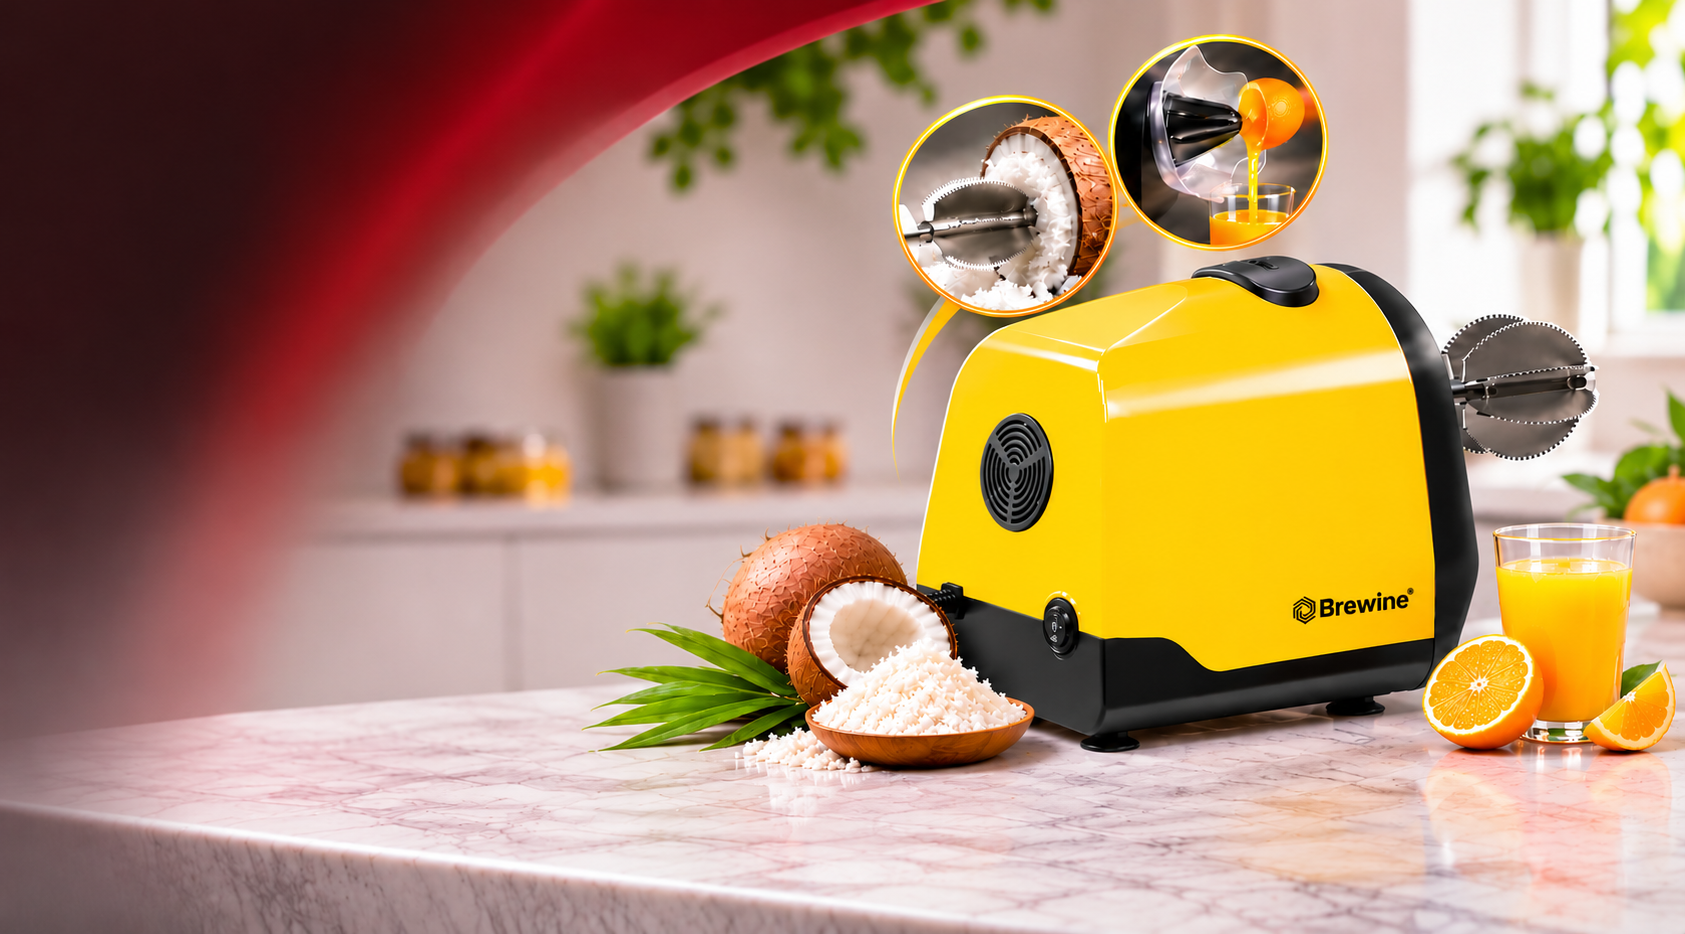
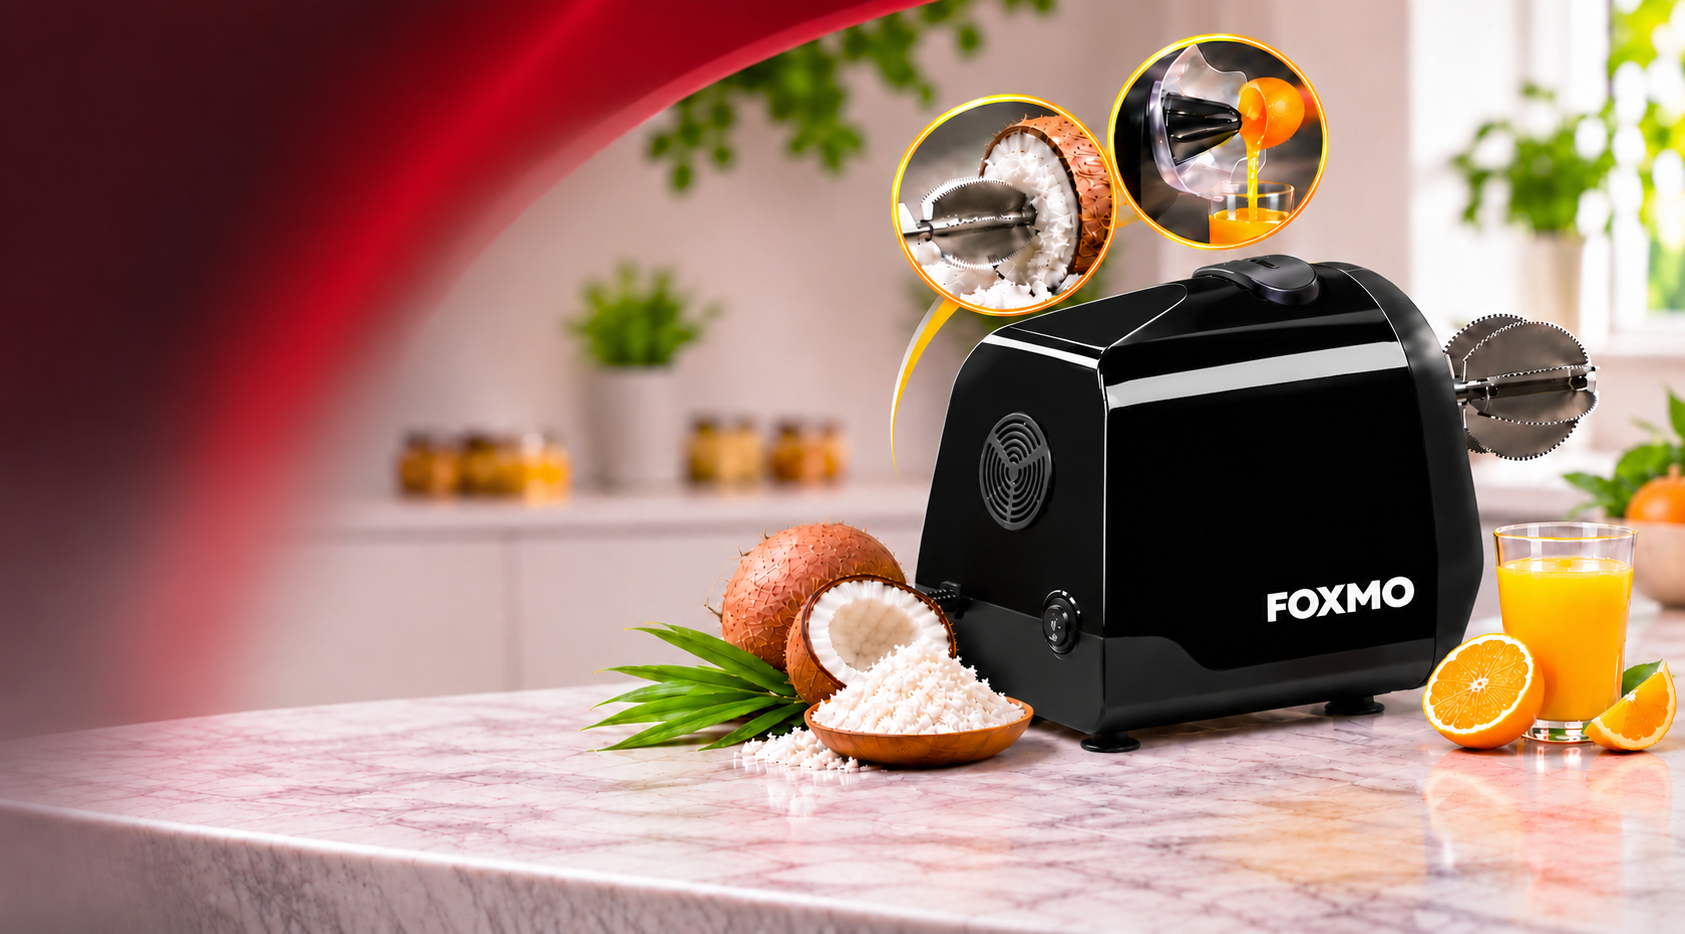
final

diff --git a/brewine-project/src/pages/Home/ProductSection.jsx b/brewine-project/src/pages/Home/ProductSection.jsx
@@ -11,25 +11,35 @@ import {
 // Yellow Edition Images
 import y01 from "../../assets/Images/Products/Yollow/y01.png";
 import y02 from "../../assets/Images/Products/Yollow/y02.jpg";
-import y03 from "../../assets/Images/Products/Yollow/y03.jpg";
-import y04 from "../../assets/Images/Products/Yollow/y04.jpg";
-import y05 from "../../assets/Images/Products/Yollow/y05.jpg";
+import y03 from "../../assets/Images/Products/Yollow/y03.png";
+import y04 from "../../assets/Images/Products/Yollow/y04.png";
+import y05 from "../../assets/Images/Products/Yollow/y05.png";
 import y06 from "../../assets/Images/Products/Yollow/y06.png";
 
 // Red Edition Images
 import r01 from "../../assets/Images/Products/Red/r01.png";
-import r02 from "../../assets/Images/Products/Red/r02.jpeg";
-import r03 from "../../assets/Images/Products/Red/r03.jpeg";
-import r04 from "../../assets/Images/Products/Red/r04.jpeg";
+import r02 from "../../assets/Images/Products/Red/r02.png";
+import r03 from "../../assets/Images/Products/Red/r03.png";
+import r04 from "../../assets/Images/Products/Red/r04.png";
 import r05 from "../../assets/Images/Products/Red/r05.jpeg";
-import r06 from "../../assets/Images/Products/Red/r06.jpeg";
+
 
 // Gray Edition Images
-import g01 from "../../assets/Images/Products/Gray/G01.jpeg";
-import g02 from "../../assets/Images/Products/Gray/G02.jpeg";
-import g03 from "../../assets/Images/Products/Gray/G03.jpeg";
-import g04 from "../../assets/Images/Products/Gray/G04.jpeg";
-import g05 from "../../assets/Images/Products/Gray/G04.jpeg";
+import g01 from "../../assets/Images/Products/Gray/G01.png";
+import g02 from "../../assets/Images/Products/Gray/G02.png";
+import g03 from "../../assets/Images/Products/Gray/G03.png";
+import g04 from "../../assets/Images/Products/Gray/G04.png";
+import g05 from "../../assets/Images/Products/Gray/G04.png";
+
+
+import b01 from "../../assets/Images/Products/Black/Black01.png";
+import b02 from "../../assets/Images/Products/Black/Black02.png";
+import b03 from "../../assets/Images/Products/Black/Black03.png";
+import b04 from "../../assets/Images/Products/Black/Black04.png";
+import b05 from "../../assets/Images/Products/Black/Black05.png";
+import b06 from "../../assets/Images/Products/Black/Black06.png";
+import b07 from "../../assets/Images/Products/Black/Black07.png";
+import b08 from "../../assets/Images/Products/Black/Black08.png";
 
 const products = [
   {
@@ -54,7 +64,7 @@ const products = [
     colorDot: "bg-[#e62e2d]",
     badge: "Chef's Choice",
     tagline: "Maximum juice extraction with zero peel bitterness",
-    images: [r01, r02, r03, r04, r05, r06],
+    images: [r01, r02, r03, r04, r05],
     rating: "4.8",
     reviews: 94,
     price: 2899,
@@ -70,6 +80,21 @@ const products = [
     badge: "2-in-1 Combo",
     tagline: "Complete coconut scraper & citrus juicer combo pack",
     images: [g01, g02, g03, g04, g05],
+    rating: "5.0",
+    reviews: 215,
+    price: 2899,
+    originalPrice: 3795,
+    discount: "24% OFF",
+    features: ["Dual Attachment System", "Space-Saving Design"],
+  },
+  {
+    id: 3,
+    name: "Coconut Scraper & Citrus Juicer",
+    colorLabel: "Black",
+    colorDot: "bg-[#4b5563]",
+    badge: "2-in-1 Combo",
+    tagline: "Complete coconut scraper & citrus juicer combo pack",
+    images: [b01,b02,b03,b04,b05,b06,b07,b08],
     rating: "5.0",
     reviews: 215,
     price: 2899,
